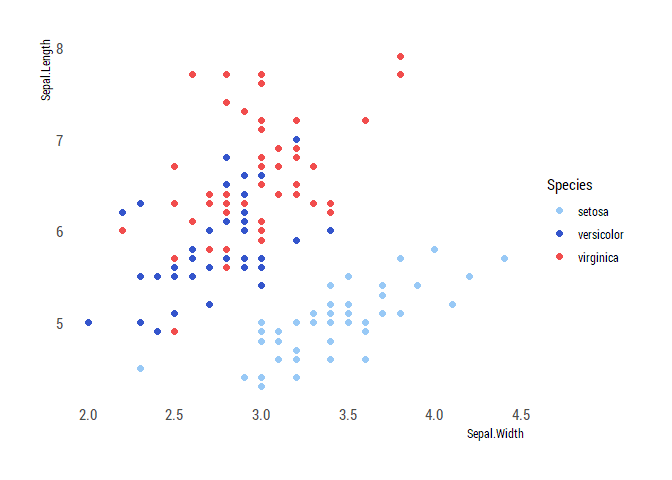
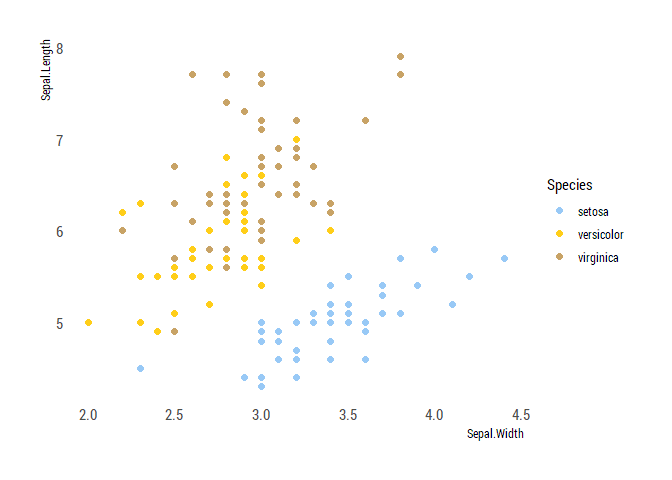
Added swatches

diff --git a/Readme.md b/Readme.md
@@ -1,35 +1,48 @@
 Readme
 ================
 Maris Vainre
-27/03/2021
+01/04/2021
 
 # About PraxisColour
 
-This is a R package to employ the now almost-official [Praxis Centre for
-Policy Studies](http://www.praxis.ee/en/) colour palette. The package
-was created based on [Alex Quent’s
+This is an R package to employ the official [Praxis Centre for Policy
+Studies](http://www.praxis.ee/en/) colour palette. The package was
+created based on [Alex Quent’s
 MRColour](https://github.com/JAQuent/MRColour) and [Drsimonj’s blog
 post](https://drsimonj.svbtle.com/creating-corporate-colour-palettes-for-ggplot2).
 
 # The colour palettes
 
 ``` r
-library(ggplot2)
-library(hrbrthemes)
 library(PraxisColour)
 library(tidyverse)
+library(ggplot2)
+library(hrbrthemes)
 
-praxis_pal("main")(3)
+praxis_pal("main")(7)
 ```
 
-    ## [1] "#98C9F6" "#3455CC" "#F14D4D"
+    ## [1] "#3455CC" "#98C9F6" "#262626" "#F14D4D" "#FFCE19" "#A5A5A5" "#C8A366"
+
+![](Readme_files/figure-gfm/swatchMain-1.png)<!-- -->
+
+## Sub-palettes
 
 ``` r
-praxis_pal("main")(10)
+praxis_pal("contrast")(3)
 ```
 
-    ##  [1] "#98C9F6" "#81AFEC" "#6B95E3" "#557BDA" "#3F61D0" "#4954BD" "#7252A1"
-    ##  [8] "#9C5085" "#C64E69" "#F14D4D"
+    ## [1] "#3455CC" "#F14D4D" "#FFCE19"
+
+![](Readme_files/figure-gfm/swatchContrast-1.png)<!-- -->
+
+``` r
+praxis_pal("cool")(3)
+```
+
+    ## [1] "#3455CC" "#A5A5A5" "#98C9F6"
+
+![](Readme_files/figure-gfm/swatchCool-1.png)<!-- -->
 
 ``` r
 praxis_pal("binary")(2)
@@ -37,31 +50,39 @@ praxis_pal("binary")(2)
 
     ## [1] "#3455CC" "#A5A5A5"
 
+![](Readme_files/figure-gfm/swatchBinary-1.png)<!-- -->
+
 ``` r
 praxis_pal("blackgold")(2)
 ```
 
     ## [1] "#262626" "#C8A366"
 
-``` r
-praxis_pal("cool")(3)
-```
-
-    ## [1] "#98C9F6" "#3455CC" "#A5A5A5"
+![](Readme_files/figure-gfm/swatchBG-1.png)<!-- -->
 
 ``` r
-praxis_pal("monochrome")(3)
+praxis_pal("monochrome")(2)
 ```
 
-    ## [1] "#262626" "#656565" "#A5A5A5"
+    ## [1] "#262626" "#A5A5A5"
+
+![](Readme_files/figure-gfm/swatchMono-1.png)<!-- -->
+
+Each palette has a gradient. For example:
 
 ``` r
-praxis_pal("full")(7)
+praxis_pal("contrast")(10)
 ```
 
-    ## [1] "#98C9F6" "#3455CC" "#F14D4D" "#FFCE19" "#262626" "#A5A5A5" "#C8A366"
+    ##  [1] "#3455CC" "#5E53AF" "#885193" "#B24F77" "#DC4D5B" "#F25B47" "#F5773B"
+    ##  [8] "#F89430" "#FBB124" "#FFCE19"
 
-## Ggplot examples
+![](Readme_files/figure-gfm/swatchMain10-1.png)<!-- -->
+
+## `ggplot` examples
+
+You can specify a colour from the following:
+`praxis_cols("blue", "lightblue", "black", "red", "yellow", "grey", "gold")`
 
 ``` r
 ggplot(mtcars, aes(hp, mpg)) +
@@ -74,13 +95,40 @@ ggplot(mtcars, aes(hp, mpg)) +
 ![](Readme_files/figure-gfm/dotsSin-1.png)<!-- -->
 
 ``` r
-ggplot(iris, aes(Sepal.Width, Sepal.Length, color = Species)) +
+ggplot(mpg, aes(displ, hwy, color = class)) +
   geom_point(size = 2) +
-  scale_color_praxis()  +
+  scale_color_praxis(palette = "main")  +
     theme_ipsum_rc(grid=FALSE)
 ```
 
-![](Readme_files/figure-gfm/dots3-1.png)<!-- -->
+![](Readme_files/figure-gfm/dotsall-1.png)<!-- -->
+
+``` r
+ggplot(mpg, aes(manufacturer, fill = manufacturer)) +
+  geom_bar()+
+  scale_fill_praxis(palette = "main", guide = "none") +
+  theme_ipsum_rc(grid=FALSE, axis_text_size = 6)
+```
+
+![](Readme_files/figure-gfm/barAll-1.png)<!-- -->
+
+``` r
+ggplot(iris, aes(Sepal.Width, Sepal.Length, color = Species)) +
+  geom_point(size = 2) +
+  scale_color_praxis(palette = "contrast")  +
+    theme_ipsum_rc(grid=FALSE)
+```
+
+![](Readme_files/figure-gfm/dotsCon-1.png)<!-- -->
+
+``` r
+ggplot(iris, aes(Sepal.Width, Sepal.Length, color = Species)) +
+  geom_point(size = 2) +
+  scale_color_praxis(palette = "cool")  +
+    theme_ipsum_rc(grid=FALSE)
+```
+
+![](Readme_files/figure-gfm/dots2-1.png)<!-- -->
 
 ``` r
 iris.sub <- iris %>%
@@ -100,18 +148,6 @@ iris.sub <- iris %>%
 
 ggplot(iris.sub, aes(Sepal.Width, Sepal.Length, color = Species)) +
   geom_point(size = 2) +
-  scale_color_praxis(palette = "monochrome")  +
-    theme_ipsum_rc(grid=FALSE)
-```
-
-![](Readme_files/figure-gfm/dotsMono-1.png)<!-- -->
-
-``` r
-iris.sub <- iris %>%
-  filter(Species != "versicolor")
-
-ggplot(iris.sub, aes(Sepal.Width, Sepal.Length, color = Species)) +
-  geom_point(size = 2) +
   scale_color_praxis(palette = "blackgold")  +
     theme_ipsum_rc(grid=FALSE)
 ```
@@ -119,31 +155,16 @@ ggplot(iris.sub, aes(Sepal.Width, Sepal.Length, color = Species)) +
 ![](Readme_files/figure-gfm/dotsBG-1.png)<!-- -->
 
 ``` r
-ggplot(iris, aes(Sepal.Width, Sepal.Length, color = Species)) +
+iris.sub <- iris %>%
+  filter(Species != "versicolor")
+
+ggplot(iris.sub, aes(Sepal.Width, Sepal.Length, color = Species)) +
   geom_point(size = 2) +
-  scale_color_praxis(palette = "cool")  +
+  scale_color_praxis(palette = "monochrome")  +
     theme_ipsum_rc(grid=FALSE)
 ```
 
-![](Readme_files/figure-gfm/dots2-1.png)<!-- -->
-
-``` r
-ggplot(mpg, aes(displ, hwy, color = class)) +
-  geom_point(size = 2) +
-  scale_color_praxis(palette = "full")  +
-    theme_ipsum_rc(grid=FALSE)
-```
-
-![](Readme_files/figure-gfm/dotsall-1.png)<!-- -->
-
-``` r
-ggplot(mpg, aes(manufacturer, fill = manufacturer)) +
-  geom_bar()+
-  scale_fill_praxis(palette = "full", guide = "none") +
-  theme_ipsum_rc(grid=FALSE, axis_text_size = 6)
-```
-
-![](Readme_files/figure-gfm/barAll-1.png)<!-- -->
+![](Readme_files/figure-gfm/dotsMono-1.png)<!-- -->
 
 # Installing the package
 
